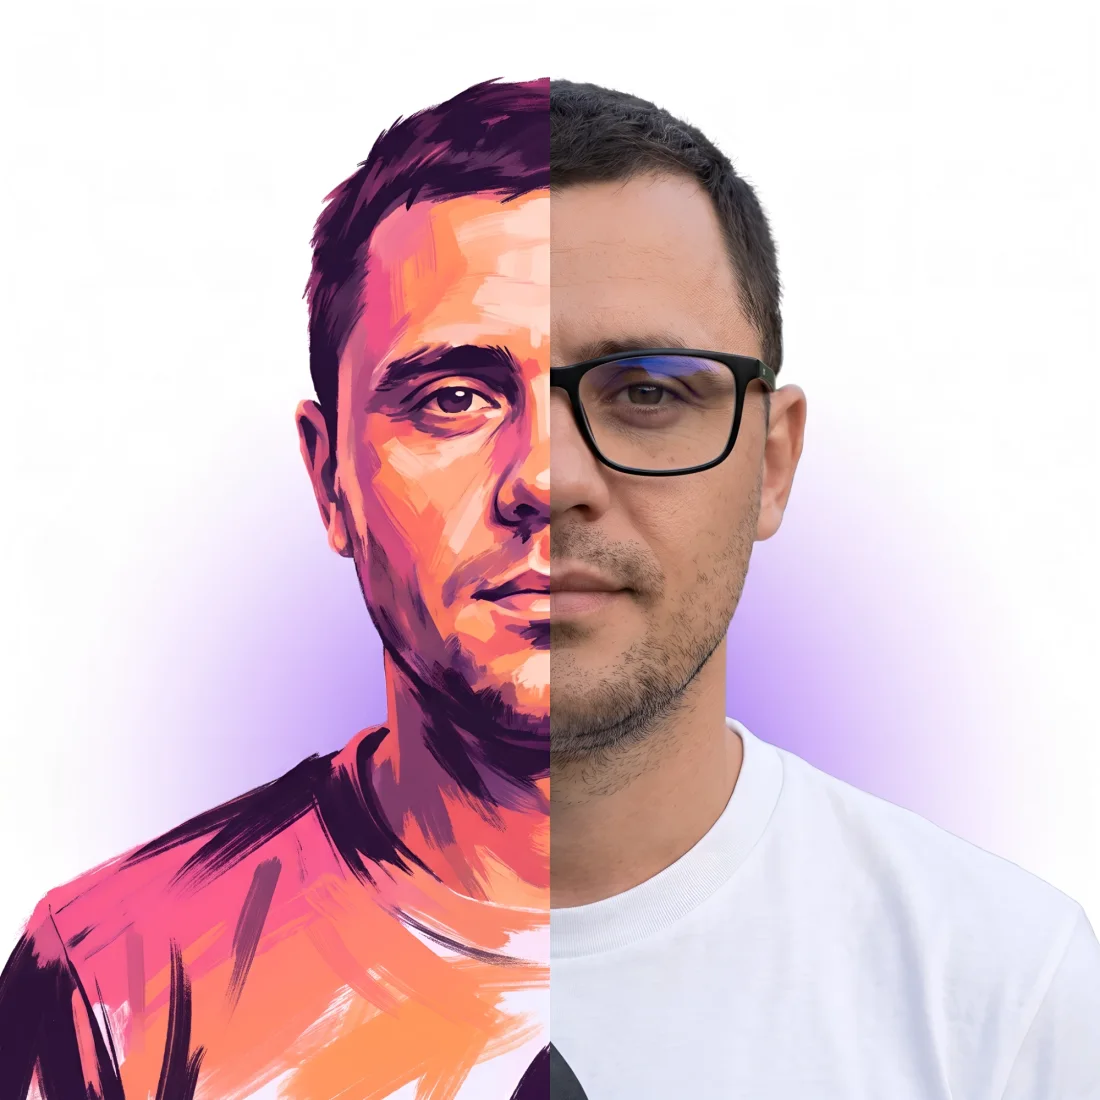
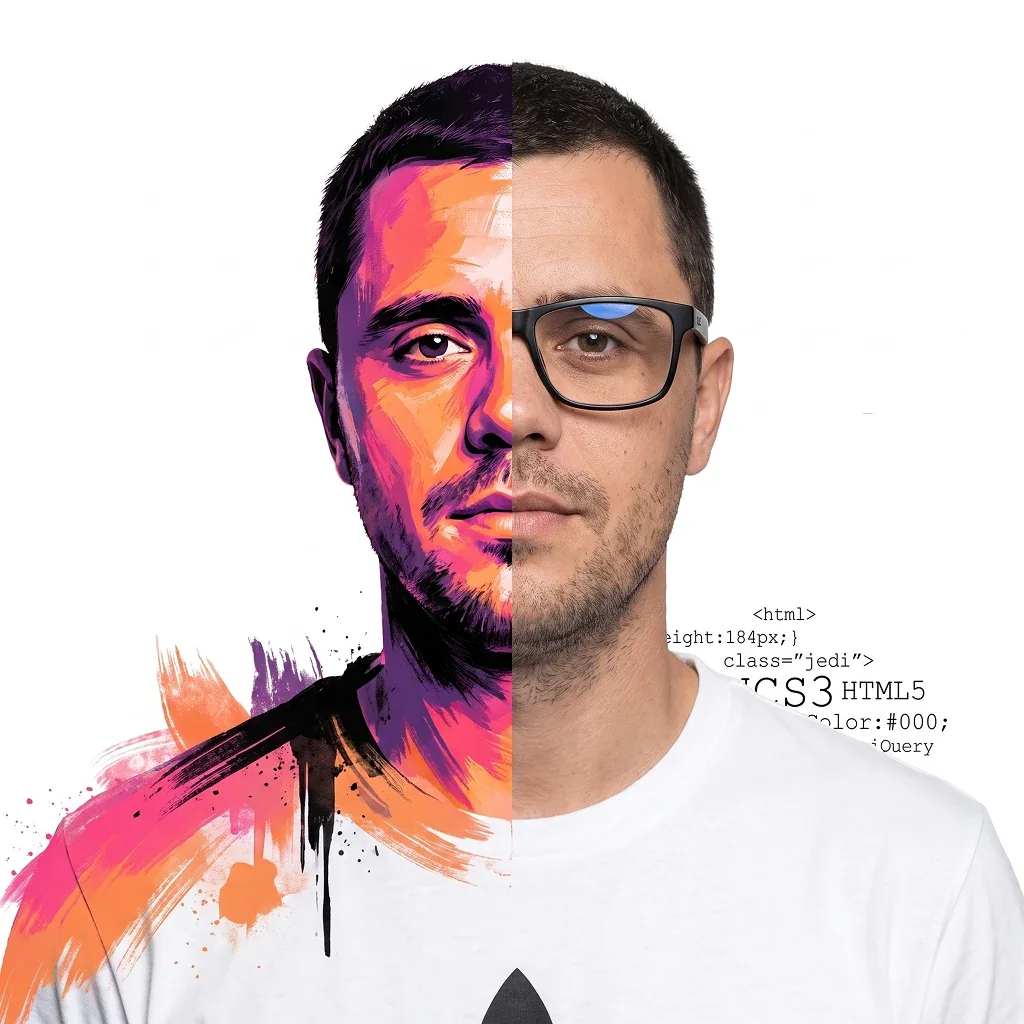
Новый портрет и понятнее тексты
Портрет на первом экране заменён, превью для ссылок пересобрано с ним же.
Заголовок теперь «для вашего бизнеса», подзаголовок кончается на «рутина
не отнимала время». Карточка про нейросеть переписана: видно, что своими
словами пишет клиент, а не бот. Цены на ботов встают в три ровные строки
напротив кнопки, «Лендинг под заявки» — в две строки, как у соседей.

diff --git a/index.html b/index.html
@@ -69,10 +69,10 @@
       <div>
         <h1>
           Сайты и приложения
-          <span class="l2 grad">для малого бизнеса</span>
+          <span class="l2 grad">для вашего бизнеса</span>
         </h1>
 
-        <p class="hero__lead" data-c="person.tagline">Лендинги, сайты, веб- и мобильные приложения, чат‑боты — чтобы клиенты вас находили, а рутина делалась сама</p>
+        <p class="hero__lead" data-c="person.tagline">Лендинги, сайты, веб- и мобильные приложения, чат‑боты — чтобы клиенты вас находили, а рутина не отнимала время</p>
 
         <div class="hero__cta">
           <a class="btn btn--primary" data-href="person.tgUrl" href="https://t.me/Mike71911" target="_blank" rel="noopener">
@@ -87,7 +87,7 @@
            сайта. Движение — в блоке «Движение» в конце style.css. -->
       <figure class="pulse">
         <span class="pulse__glow" aria-hidden="true"></span>
-        <img class="pulse__img" src="assets/img/hero-portrait.webp" width="1100" height="1100" alt="Михаил Котов: одна половина лица — фотография, другая — яркий рисунок" fetchpriority="high" decoding="async">
+        <img class="pulse__img" src="assets/img/hero-portrait.webp" width="1024" height="1024" alt="Михаил Котов: одна половина лица — фотография, другая — яркий рисунок" fetchpriority="high" decoding="async">
       </figure>
     </div>
   </section>
@@ -296,7 +296,7 @@
           <li><b>Записывает<br>клиентов</b>Показывает свободное время, записывает, переносит и напоминает о визите — неявок становится меньше</li>
           <li><b>Отвечает<br>на вопросы</b>Цены, адрес, график, «а у вас есть…» — круглые сутки и без раздражения на сотый одинаковый вопрос</li>
           <li><b>Принимает<br>заявки и оплату</b>Собирает имя, телефон и суть задачи и присылает вам готовую заявку — в Телеграм или в таблицу</li>
-          <li><b>Понимает<br>живую речь</b>С нейросетью внутри понимает вопрос своими словами, а сложный случай передаёт вам вместе с перепиской</li>
+          <li><b>Понимает<br>живую речь</b>Внутри нейросеть: клиент пишет своими словами, с опечатками — бот всё равно поймёт. Сложный вопрос передаст вам</li>
         </ul>
 
         <div class="bots__foot">
@@ -305,9 +305,9 @@
             <svg viewBox="0 0 16 16" fill="none" stroke="currentColor" stroke-width="2" aria-hidden="true"><path d="M4 12L12 4M6 4h6v6"/></svg>
           </a>
           <ul class="bots__price">
-            <li>Простой бот для записи и заявок — <b>от 20 000 ₽</b>, 1–2 недели</li>
-            <li>Умный бот на нейросети — <b>от 60 000 ₽</b>, 2–4 недели</li>
-            <li>Работа самой нейросети оплачивается отдельно, по факту</li>
+            <li>Бот для записи и заявок — <b>от 20 000 ₽</b>, 1–2 недели</li>
+            <li>Бот с нейросетью внутри — <b>от 60 000 ₽</b>, 2–4 недели</li>
+            <li>Работа нейросети оплачивается отдельно, по факту</li>
           </ul>
         </div>
       </div>
@@ -344,7 +344,7 @@
       <div class="services">
 
         <article class="srv reveal">
-          <h3>Лендинг под заявки</h3>
+          <h3>Лендинг<br>под заявки</h3>
           <p class="srv__who">Когда есть одна услуга или один продукт, и нужны звонки и заявки</p>
           <ul class="srv__list">
             <li>Одна страница с понятной структурой</li>

diff --git a/assets/js/content.js b/assets/js/content.js
@@ -15,7 +15,7 @@ window.CONTENT = {
     name:      "Михаил Котов",
     wordmark:  "МК",                          // 2–3 буквы для логотипа в шапке
     role:      "Веб-разработчик",
-    tagline:   "Лендинги, сайты, веб- и мобильные приложения, чат‑боты — чтобы клиенты вас находили, а рутина делалась сама",
+    tagline:   "Лендинги, сайты, веб- и мобильные приложения, чат‑боты — чтобы клиенты вас находили, а рутина не отнимала время",
     tgUrl:     "https://t.me/Mike71911",
     tgLabel:   "@Mike71911",
     maxUrl:    "https://max.ru/u/f9LHodD0cOKU6IZthvDQTPLL0rD-YsFFYSlLPU4-jynTu9EXJVD-XpYM908",

diff --git a/assets/css/style.css b/assets/css/style.css
@@ -387,7 +387,7 @@ button{font:inherit;color:inherit}
 /* Заголовок умения всегда в две строки — карточки в сетке выглядят одинаково */
 .bots__list b{display:block;margin-bottom:6px;color:var(--text);font-family:var(--display);font-weight:700;font-size:15px;line-height:1.25;min-height:2.5em}
 .bots__foot{display:flex;flex-wrap:wrap;align-items:center;gap:14px}
-.bots__price{display:grid;gap:6px;font-size:13px;color:var(--text-3);max-width:44ch}
+.bots__price{display:grid;gap:6px;font-size:13px;color:var(--text-3);min-width:0}
 .bots__price li{position:relative;padding-left:14px}
 .bots__price li::before{content:"";position:absolute;left:0;top:8px;width:5px;height:5px;border-radius:50%;background:var(--accent-b)}
 .bots__price b{color:var(--text);font-weight:700}
